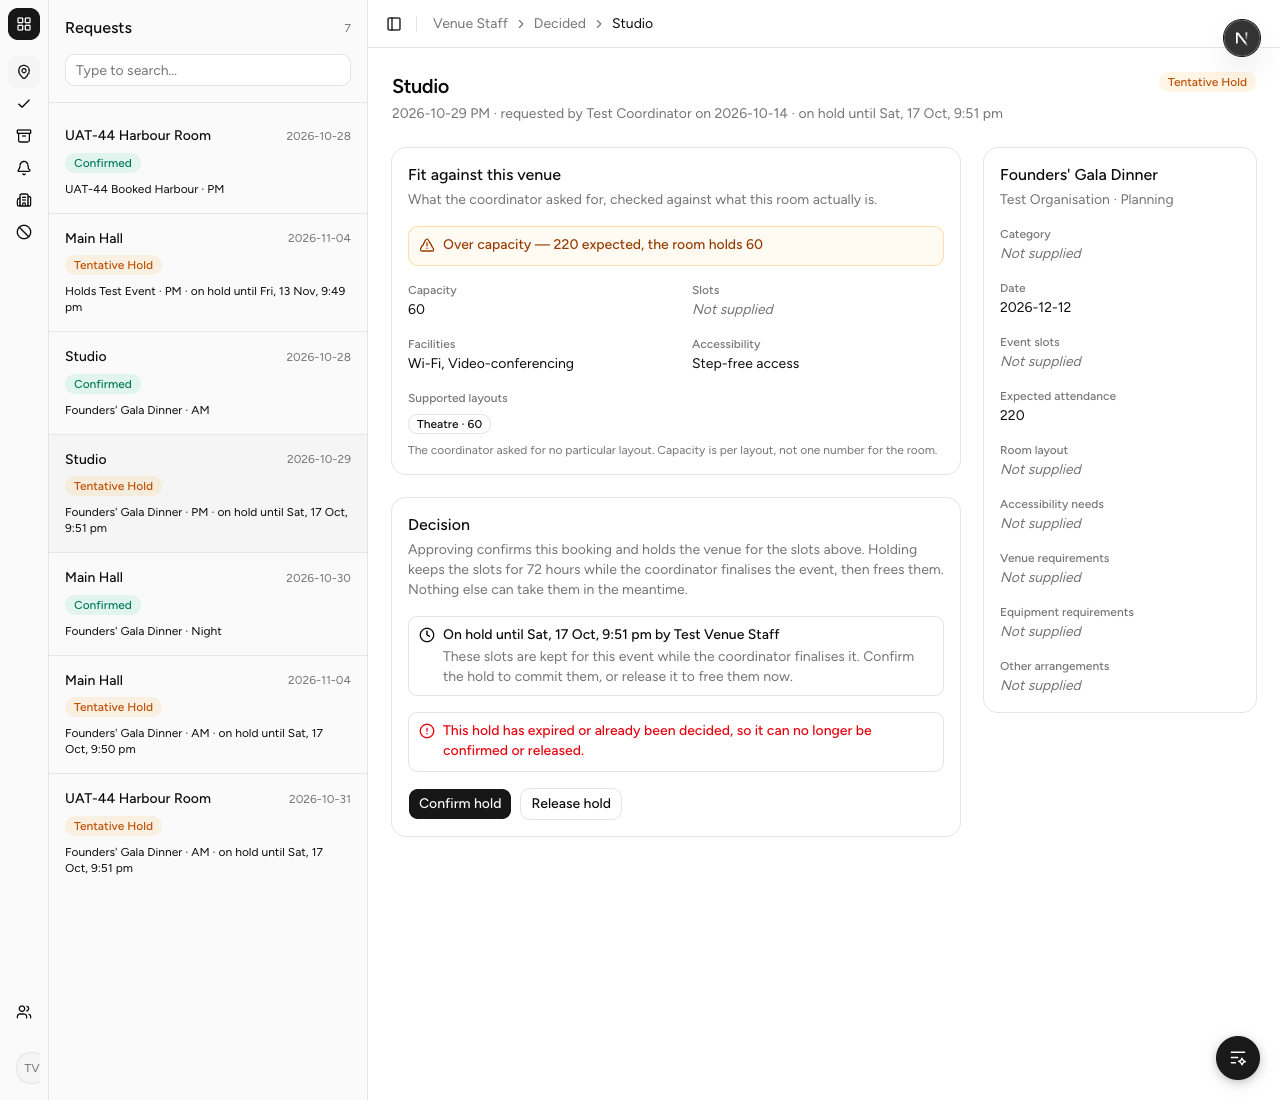
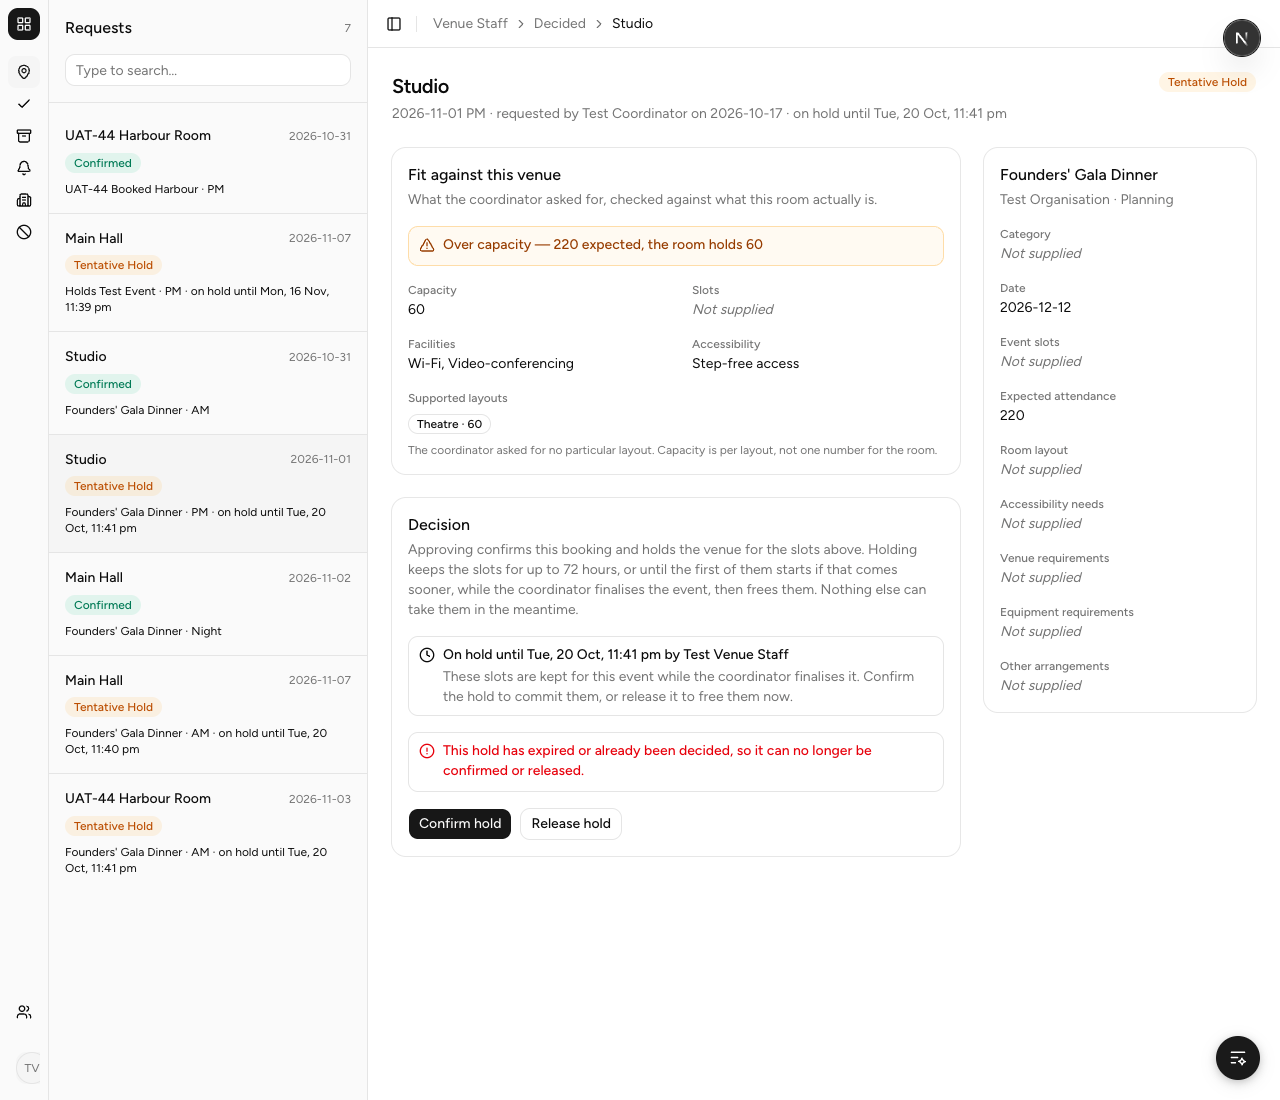
docs(testing): add venue hold cases 010 and 011 (SPM-253)
Expired reads as Expired in Archive; a hold is capped at its slot's start.

diff --git a/docs/testing/VENUE_HOLD_MANUAL_TESTS.md b/docs/testing/VENUE_HOLD_MANUAL_TESTS.md
@@ -2,23 +2,23 @@
 
 ## Overview
 
-Browser checks for **SPM-218: Place a tentative hold on a venue slot** and **SPM-219: Confirm or
-release a tentative hold**. Venue
+Browser checks for **SPM-218: Place a tentative hold on a venue slot**, **SPM-219: Confirm or
+release a tentative hold** and **SPM-253: Expire an unconfirmed hold**. Venue
 Staff place a hold on a booking request while the Event Coordinator is
 finalising the event. The hold keeps the request's slots from everyone else for
-72 hours (`DEFAULT_HOLD_HOURS`), and then lapses (SPM-253). The rules behind it
+72 hours (`DEFAULT_HOLD_HOURS`), or until its slot starts if that is sooner, and then lapses to
+**Expired** (SPM-253). The rules behind it
 are unit-tested (`decideBooking placing a hold (SPM-218)` and the use case, mapper and
 repository tests tagged SPM-218) and the database function was proven on a scratch
 Postgres; these cases check the pages end to end against Supabase.
 
-These cases are registered as `TC-VHOLD-001`–`TC-VHOLD-009` in
+These cases are registered as `TC-VHOLD-001`–`TC-VHOLD-011` in
 [`../tests/manual-registry.csv`](../tests/manual-registry.csv). Report what you ran in the
 PR description's `## Manual test results` table; CI records it in
 [`manual-runs.csv`](../tests/manual-runs.csv) when the PR merges, so do not edit that file.
 The ticked boxes and screenshots below are the working record for this run.
 
-A hold lapsing on its own is SPM-253, so no case waits out a hold: TC-VHOLD-008 sets an
-expiry in the past with SQL instead. A held booking is listed under **Decided**,
+No case waits out a hold: TC-VHOLD-008 and 010 set an expiry in the past with SQL instead. A held booking is listed under **Decided**,
 beside Confirmed ones; the list filters did not change.
 
 ## Setup
@@ -98,7 +98,7 @@ The cases read the database with SQL. Run a query with
 
 ### Order
 
-Run the cases in order, TC-VHOLD-001 to 009: TC-VHOLD-002 and 005 start from the hold TC-VHOLD-001
+Run the cases in order, TC-VHOLD-001 to 011: TC-VHOLD-002 and 005 start from the hold TC-VHOLD-001
 placed, TC-VHOLD-006 confirms that hold, TC-VHOLD-007 releases the one TC-VHOLD-002 placed, TC-VHOLD-008 uses booking C, and TC-VHOLD-009 uses booking D, held in TC-VHOLD-004. Each case changes the data, so to run any of them again go back to step 1.
 
 ---
@@ -134,7 +134,7 @@ placed, TC-VHOLD-006 confirms that hold, TC-VHOLD-007 releases the one TC-VHOLD-
 - Step 5: `Tentative Hold`, about 72 hours left (between 71 and 73), decided by Test Venue Staff, and
   one audit row, `hold` (AC1).
 
-**Status:** [x] Pass [ ] Fail — 14/10/2026, run in Chrome via Playwright for JameszLau
+**Status:** [x] Pass [ ] Fail — 17/10/2026, run in Chrome via Playwright for JameszLau
 
 **Screenshots:** [step1-decision-card-with-hold](../screenshots/2026-10-13_TC-VHOLD-001_step1-decision-card-with-hold.png) · [step2-on-hold-card](../screenshots/2026-10-13_TC-VHOLD-001_step2-on-hold-card.png) · [step3-decided-list](../screenshots/2026-10-13_TC-VHOLD-001_step3-decided-list.png) · [step4-coordinator-row](../screenshots/2026-10-13_TC-VHOLD-001_step4-coordinator-row.png)
 
@@ -161,7 +161,7 @@ placed, TC-VHOLD-006 confirms that hold, TC-VHOLD-007 releases the one TC-VHOLD-
 - Booking B was **Requested** beside booking A when A was held: a request still waiting
   blocks nothing, so it did not stop the hold (AC2).
 
-**Status:** [x] Pass [ ] Fail — 14/10/2026, run in Chrome via Playwright for JameszLau
+**Status:** [x] Pass [ ] Fail — 17/10/2026, run in Chrome via Playwright for JameszLau
 
 **Screenshots:** [step1-search-lists-harbour-room](../screenshots/2026-10-13_TC-VHOLD-002_step1-search-lists-harbour-room.png) · [step3-search-without-harbour-room](../screenshots/2026-10-13_TC-VHOLD-002_step3-search-without-harbour-room.png) · [step4-second-hold-refused](../screenshots/2026-10-13_TC-VHOLD-002_step4-second-hold-refused.png) · [step5-other-slot-unaffected](../screenshots/2026-10-13_TC-VHOLD-002_step5-other-slot-unaffected.png)
 
@@ -187,7 +187,7 @@ placed, TC-VHOLD-006 confirms that hold, TC-VHOLD-007 releases the one TC-VHOLD-
 - Step 2: refused with "The venue is unavailable for <T + 6> AM" (AC2).
 - Step 3: both are `Requested` with no expiry, and no audit rows (AC2).
 
-**Status:** [x] Pass [ ] Fail — 14/10/2026, run in Chrome via Playwright for JameszLau
+**Status:** [x] Pass [ ] Fail — 17/10/2026, run in Chrome via Playwright for JameszLau
 
 **Screenshots:** [step1-clash-with-confirmed](../screenshots/2026-10-13_TC-VHOLD-003_step1-clash-with-confirmed.png) · [step2-blocked-slot](../screenshots/2026-10-13_TC-VHOLD-003_step2-blocked-slot.png)
 
@@ -195,7 +195,7 @@ placed, TC-VHOLD-006 confirms that hold, TC-VHOLD-007 releases the one TC-VHOLD-
 
 ### TC-VHOLD-004: An expired hold does not block, and a live one does (AC2)
 
-**What this tests:** Only a hold that is still running blocks a slot. Main Hall has two holds on day H: the morning one ran out an hour ago (expired), the afternoon one has 30 days left (live). A new hold over the live PM one (booking E) must be refused. A new hold over the expired AM one (booking D) must be accepted, and the old expired hold is then marked Released, with an audit record, so the slot is free again.
+**What this tests:** Only a hold that is still running blocks a slot. Main Hall has two holds on day H: the morning one ran out an hour ago (expired), the afternoon one has 30 days left (live). A new hold over the live PM one (booking E) must be refused. A new hold over the expired AM one (booking D) must be accepted, and the old expired hold is then marked Expired, with an audit record, so the slot is free again.
 
 **Preconditions:** The fixture from Setup, with the two holds from the setup (AM expired, PM live). Signed in as `venue@test.com`.
 
@@ -207,15 +207,15 @@ placed, TC-VHOLD-006 confirms that hold, TC-VHOLD-007 releases the one TC-VHOLD-
    select b.booking_id, b.status from booking b join booking_slot bs using (booking_id)
     where b.venue_id = (select venue_id from venue where location = 'Main Hall') and bs.slot_date = (now() at time zone 'Asia/Singapore')::date + 21
     order by bs.slot, b.booking_id;
-   select entity_id, action from audit_record where action = 'release expired hold';
+   select entity_id, action from audit_record where action = 'expire hold';
    ```
 
 **Expected Result:**
 - Step 1: refused, naming that date and PM; booking E stays **Requested**.
 - Step 2: accepted: booking D reads "On hold until …" (AC2).
-- Step 3: the expired hold on the AM slot is now `Released`, with a `release expired hold` audit row; the live PM hold is unchanged and booking D is `Tentative Hold` (AC2).
+- Step 3: the expired hold on the AM slot is now `Expired`, with an `expire hold` audit row; the live PM hold is unchanged and booking D is `Tentative Hold` (AC2).
 
-**Status:** [x] Pass [ ] Fail — 14/10/2026, run in Chrome via Playwright for JameszLau
+**Status:** [x] Pass [ ] Fail — 17/10/2026, run in Chrome via Playwright for JameszLau
 
 **Screenshots:** [step1-live-hold-refuses](../screenshots/2026-10-13_TC-VHOLD-004_step1-live-hold-refuses.png) · [step2-expired-hold-does-not-block](../screenshots/2026-10-13_TC-VHOLD-004_step2-expired-hold-does-not-block.png)
 
@@ -235,7 +235,7 @@ placed, TC-VHOLD-006 confirms that hold, TC-VHOLD-007 releases the one TC-VHOLD-
 - Step 1: the access-denied screen with a 403 (SPM-16), and none of the booking's details; nothing changes (AC4).
 - Step 2: neither the held booking nor the Confirmed one offers **Place hold**, **Approve booking** or **Reject** (AC1). The held booking offers only **Confirm hold** and **Release hold**; the Confirmed one offers no button.
 
-**Status:** [x] Pass [ ] Fail — 14/10/2026, run in Chrome via Playwright for JameszLau
+**Status:** [x] Pass [ ] Fail — 17/10/2026, run in Chrome via Playwright for JameszLau
 
 **Screenshots:** [step1-coordinator-denied](../screenshots/2026-10-13_TC-VHOLD-005_step1-coordinator-denied.png) · [step2-confirmed-booking-no-buttons](../screenshots/2026-10-13_TC-VHOLD-005_step2-confirmed-booking-no-buttons.png) · [step2-held-booking-confirm-release-only](../screenshots/2026-10-14_TC-VHOLD-005_step2-held-booking-confirm-release-only.png)
 
@@ -268,7 +268,7 @@ placed, TC-VHOLD-006 confirms that hold, TC-VHOLD-007 releases the one TC-VHOLD-
 - Step 5: the Studio row reads **Confirmed**, with no "On hold until" line (AC1).
 - Step 6: `Confirmed` with an empty expiry; two audit rows, `hold` then `confirm hold`, the second by Test Venue Staff (AC3); one `Sent` notification for the coordinator, reading "Studio approved for Founders' Gala Dinner", the same as for an approval (AC5).
 
-**Status:** [x] Pass [ ] Fail — 14/10/2026, run in Chrome via Playwright for JameszLau
+**Status:** [x] Pass [ ] Fail — 17/10/2026, run in Chrome via Playwright for JameszLau
 
 **Screenshots:** [step1-hold-offers-confirm-and-release](../screenshots/2026-10-14_TC-VHOLD-006_step1-hold-offers-confirm-and-release.png) · [step2-confirmed](../screenshots/2026-10-14_TC-VHOLD-006_step2-confirmed.png) · [step5-coordinator-row-confirmed](../screenshots/2026-10-14_TC-VHOLD-006_step5-coordinator-row-confirmed.png)
 
@@ -300,7 +300,7 @@ placed, TC-VHOLD-006 confirms that hold, TC-VHOLD-007 releases the one TC-VHOLD-
 - Step 5: accepted. Booking G2 reads "On hold until …", because the released slot was free at once (AC2).
 - Step 6: `Released`; two audit rows, `hold` then `release hold` (AC3); one `Sent` notification for the coordinator, reading "UAT-44 Harbour Room hold released for Founders' Gala Dinner" (AC6).
 
-**Status:** [x] Pass [ ] Fail — 14/10/2026, run in Chrome via Playwright for JameszLau
+**Status:** [x] Pass [ ] Fail — 17/10/2026, run in Chrome via Playwright for JameszLau
 
 **Screenshots:** [step1-released](../screenshots/2026-10-14_TC-VHOLD-007_step1-released.png) · [step3-search-lists-harbour-room-again](../screenshots/2026-10-14_TC-VHOLD-007_step3-search-lists-harbour-room-again.png) · [step5-new-hold-accepted](../screenshots/2026-10-14_TC-VHOLD-007_step5-new-hold-accepted.png)
 
@@ -330,12 +330,12 @@ placed, TC-VHOLD-006 confirms that hold, TC-VHOLD-007 releases the one TC-VHOLD-
 
 **Expected Result:**
 - Step 3: refused with "This hold has expired or already been decided, so it can no longer be confirmed or released."; the booking is not confirmed (AC4).
-- Step 4: the card reads "Hold expired <day, time>" and offers **no** Confirm hold or Release hold (AC4).
+- Step 4: the card reads "Hold expired <day, time>", the badge reads **Expired**, and no Confirm hold or Release hold is offered (AC4).
 - Step 5: booking A, already decided, offers no Confirm hold or Release hold (AC4).
 - Step 6: booking B, still waiting, offers Approve, Place hold and Reject, and no Confirm hold or Release hold (AC4).
-- Step 7: booking C is still `Tentative Hold` and has one audit row, `hold`: the refused confirmation wrote nothing (AC4).
+- Step 7: booking C is `Expired` (it was marked when you reloaded in step 4) and has two audit rows, `hold` then `expire hold`: the refused confirmation wrote nothing (AC4).
 
-**Status:** [x] Pass [ ] Fail — 14/10/2026, run in Chrome via Playwright for JameszLau
+**Status:** [x] Pass [ ] Fail — 17/10/2026, run in Chrome via Playwright for JameszLau
 
 **Screenshots:** [step3-refused-after-expiry](../screenshots/2026-10-14_TC-VHOLD-008_step3-refused-after-expiry.png) · [step4-hold-expired](../screenshots/2026-10-14_TC-VHOLD-008_step4-hold-expired.png) · [step5-confirmed-offers-neither](../screenshots/2026-10-14_TC-VHOLD-008_step5-confirmed-offers-neither.png)
 
@@ -364,7 +364,69 @@ placed, TC-VHOLD-006 confirms that hold, TC-VHOLD-007 releases the one TC-VHOLD-
 - Step 4: accepted: the card reads "Already decided — Released by Test Venue Staff" (AC7).
 - Step 5: `Released`; the audit rows are `hold` then `release hold`, with no `confirm hold`: the refused confirmation wrote nothing (AC7).
 
-**Status:** [x] Pass [ ] Fail — 14/10/2026, run in Chrome via Playwright for JameszLau
+**Status:** [x] Pass [ ] Fail — 17/10/2026, run in Chrome via Playwright for JameszLau
 
 **Screenshots:** [step3-confirm-refused-over-block](../screenshots/2026-10-14_TC-VHOLD-009_step3-confirm-refused-over-block.png) · [step4-released-over-block](../screenshots/2026-10-14_TC-VHOLD-009_step4-released-over-block.png)
+
+---
+
+### TC-VHOLD-010: A hold that ran out reads Expired and moves to Archive (AC1, AC2, AC4, AC5, AC6)
+
+**What this tests:** When a hold runs out unconfirmed it stops being a hold. It reads **Expired** (not Tentative Hold), moves from **Decided** to **Archive**, and is never shown as Confirmed. Its slots are free at once for someone else. Its expiry stays on record, and exactly one audit row says it **expired** (not that a person released it). There is no timer, so a hold is marked the next time it is read. Booking C, whose hold ran out in TC-VHOLD-008, is the example.
+
+**Preconditions:** After TC-VHOLD-008: booking C's hold has an expiry in the past and was marked when its page was reloaded. Signed in as `venue@test.com`.
+
+**Steps:**
+1. Open **Decided**.
+2. Open **Archive**, then open booking C.
+3. Reload booking C's page twice.
+4. As `coordinator@test.com`, open the Founders' Gala Dinner, choose **Request a venue**, and read the Studio row for T + 1 PM.
+5. As the coordinator, request **Studio** on T + 1, **PM** again from the same page. This is a new request; call it booking C2. As `venue@test.com`, open booking C2 and click **Place hold**.
+6. Read the database:
+   ```sql
+   select status, hold_expires_at from booking where booking_id = <booking C>;
+   select action, actor_user_account_id from audit_record where entity_type = 'booking' and entity_id = <booking C> order by audit_record_id;
+   ```
+
+**Expected Result:**
+- Step 1: booking C is not listed in **Decided** (AC6).
+- Step 2: booking C is listed in **Archive**; the card reads "Hold expired <day, time>", the badge reads **Expired**, and no buttons are offered (AC1, AC6).
+- Step 3: nothing changes.
+- Step 4: the row reads **Expired**, with no "On hold until" line, and is not shown as Confirmed (AC4, AC6).
+- Step 5: the new request is accepted and its hold is accepted: booking C2 reads "On hold until …", because the expired hold freed the slot (AC2).
+- Step 6: `Expired`, with the expiry still set to the moment it ran out; the audit rows are `hold` then `expire hold`, **one** `expire hold` however many times it was read, with no actor because time did it (AC5).
+
+**Status:** [x] Pass [ ] Fail — 17/10/2026, run in Chrome via Playwright for JameszLau
+
+**Screenshots:** [step2-expired-in-archive](../screenshots/2026-10-17_TC-VHOLD-010_step2-expired-in-archive.png) · [step4-coordinator-row-expired](../screenshots/2026-10-17_TC-VHOLD-010_step4-coordinator-row-expired.png) · [step5-new-hold-accepted](../screenshots/2026-10-17_TC-VHOLD-010_step5-new-hold-accepted.png)
+
+---
+
+### TC-VHOLD-011: A hold is capped at its slot's start (AC7)
+
+**What this tests:** A hold lasts 72 hours or until its slot starts, whichever comes first, because a hold that outlives its slot means nothing. So a hold on a slot that starts tomorrow at 1 pm expires at 1 pm tomorrow, not 72 hours from now, and a hold on a slot that has already started is refused.
+
+**Preconditions:** The fixture from Setup. Signed in as `venue@test.com`.
+
+**Steps:**
+1. As `coordinator@test.com`, open the Founders' Gala Dinner, choose **Request a venue**, and request **Studio** for **tomorrow** (Singapore date), **PM**. Call it booking Z.
+2. As `venue@test.com`, open booking Z and click **Place hold**.
+3. Read the database:
+   ```sql
+   select hold_expires_at at time zone 'Asia/Singapore' from booking where booking_id = <booking Z>;
+   ```
+4. Make a slot that has already started: set booking E's slot to yesterday.
+   ```sql
+   update booking_slot set slot_date = (now() at time zone 'Asia/Singapore')::date - 1 where booking_id = <booking E>;
+   ```
+5. Open booking E and click **Place hold**.
+
+**Expected Result:**
+- Step 2: accepted: the card reads "On hold until <tomorrow>, 1:00 pm" (AC7).
+- Step 3: tomorrow at 13:00:00, the PM slot's start, and not 72 hours from now (AC7).
+- Step 5: refused with "A hold can't be placed on a slot that has already started."; booking E stays **Requested** and has no audit row (AC7).
+
+**Status:** [x] Pass [ ] Fail — 17/10/2026, run in Chrome via Playwright for JameszLau
+
+**Screenshots:** [step2-hold-capped-at-slot-start](../screenshots/2026-10-17_TC-VHOLD-011_step2-hold-capped-at-slot-start.png) · [step5-started-slot-refused](../screenshots/2026-10-17_TC-VHOLD-011_step5-started-slot-refused.png)
 
